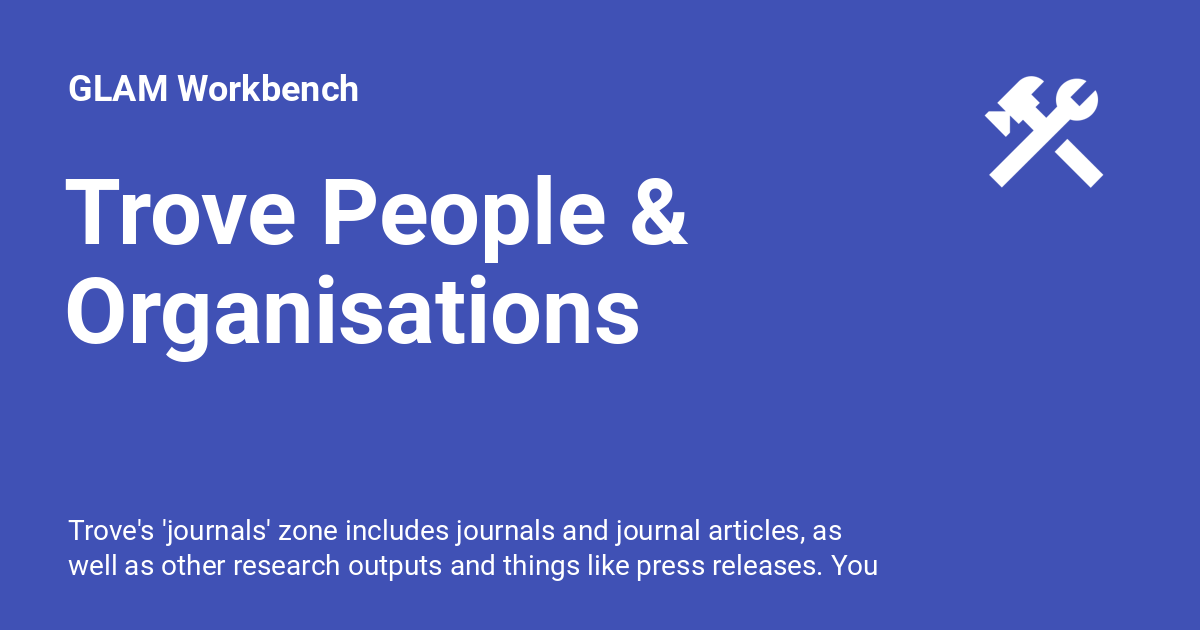
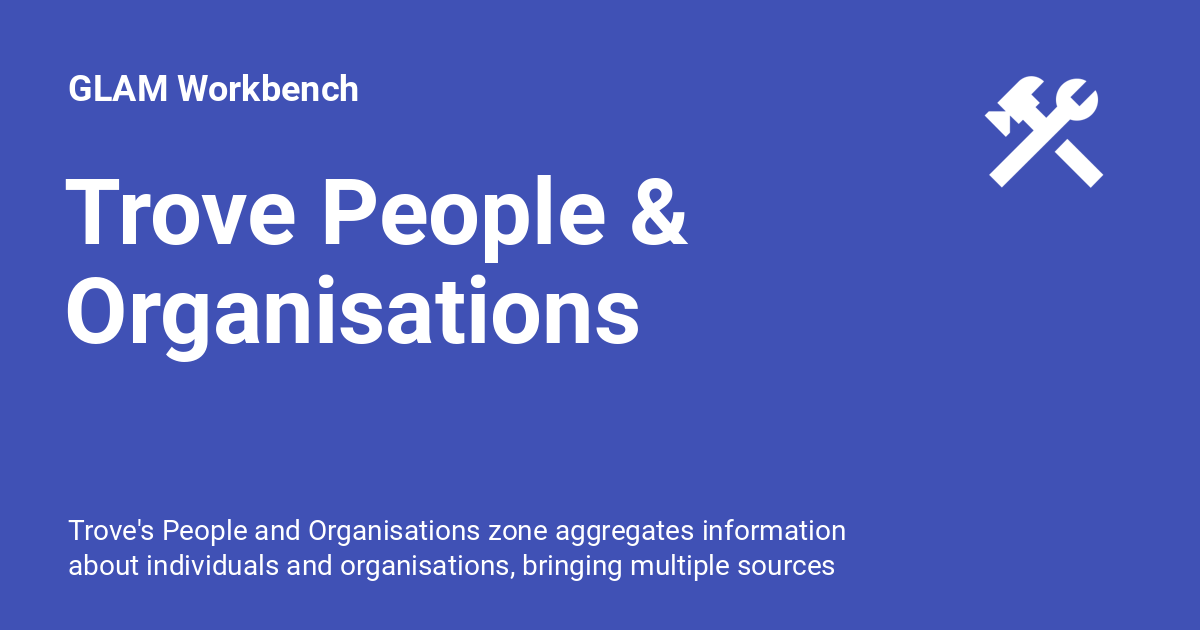
Deployed 1f4330a with MkDocs version: 1.3.0

Changed region(s): [[0.0617, 0.8143, 0.74, 0.9349]]

diff --git a/trove-people/index.html b/trove-people/index.html
@@ -6,7 +6,7 @@
       <meta charset="utf-8">
       <meta name="viewport" content="width=device-width,initial-scale=1">
       
-        <meta name="description" content="Trove's 'journals' zone includes journals and journal articles, as well as other research outputs and things like press releases. You can access metadata from the journal zone through the Trove API, but to get text and images you need to use some screen scraping.">
+        <meta name="description" content="Trove's People and Organisations zone aggregates information about individuals and organisations, bringing multiple sources together under a single identifier. Data is available through a number of APIs.">
       
       
         <meta name="author" content="Tim Sherratt">
@@ -71,7 +71,7 @@
       
         <meta  property="og:title"  content="Trove People & Organisations - GLAM Workbench" >
       
-        <meta  property="og:description"  content="Trove's 'journals' zone includes journals and journal articles, as well as other research outputs and things like press releases. You can access metadata from the journal zone through the Trove API, but to get text and images you need to use some screen scraping." >
+        <meta  property="og:description"  content="Trove's People and Organisations zone aggregates information about individuals and organisations, bringing multiple sources together under a single identifier. Data is available through a number of APIs." >
       
         <meta  property="og:image"  content="https://glam-workbench.net/assets/images/social/trove-people/index.png" >
       
@@ -87,7 +87,7 @@
       
         <meta  name="twitter:title"  content="Trove People & Organisations - GLAM Workbench" >
       
-        <meta  name="twitter:description"  content="Trove's 'journals' zone includes journals and journal articles, as well as other research outputs and things like press releases. You can access metadata from the journal zone through the Trove API, but to get text and images you need to use some screen scraping." >
+        <meta  name="twitter:description"  content="Trove's People and Organisations zone aggregates information about individuals and organisations, bringing multiple sources together under a single identifier. Data is available through a number of APIs." >
       
         <meta  name="twitter:image"  content="https://glam-workbench.net/assets/images/social/trove-people/index.png" >
       
@@ -6649,7 +6649,7 @@
 
 <!-- Markdown content -->
 <h5 id="current-version-v100">Current version: v1.0.0<a class="headerlink" href="#current-version-v100" title="Permanent link">&para;</a></h5>
-<p>Trove's People and Organisations zone aggregates information about individuals and organisations, bringing multiple sources together under a single identifier. </p>
+<p>Trove's People and Organisations zone aggregates information about individuals and organisations, bringing multiple sources together under a single identifier.</p>
 <h2 id="harvesting-data">Harvesting data<a class="headerlink" href="#harvesting-data" title="Permanent link">&para;</a></h2>
 <p>There are two methods of harvesting the complete set of data from the People and Organisations zone – using the <a href="http://www.nla.gov.au/apps/peopleaustralia-oai/">OAI-PMH API</a>, or using the main Trove API in conjunction with the <a href="http://www.nla.gov.au/apps/srw/search/peopleaustralia">SRU interface</a>. The OAI-PMH method is <em>much</em> faster, but includes duplicate records that you'll need to filter out afterwards.</p>
 <h3 id="harvesting-the-complete-set-of-data-from-the-people-and-organisations-zone"><a href="complete_harvest/"><span class="twemoji"><svg xmlns="http://www.w3.org/2000/svg" viewBox="0 0 24 24"><path d="M17 4v6l-2-2-2 2V4H9v16h10V4h-2M3 7V5h2V4a2 2 0 0 1 2-2h12c1.05 0 2 .95 2 2v16c0 1.05-.95 2-2 2H7c-1.05 0-2-.95-2-2v-1H3v-2h2v-4H3v-2h2V7H3m2-2v2h2V5H5m0 14h2v-2H5v2m0-6h2v-2H5v2Z"/></svg></span> Harvesting the complete set of data from the People and Organisations zone</a><a class="headerlink" href="#harvesting-the-complete-set-of-data-from-the-people-and-organisations-zone" title="Permanent link">&para;</a></h3>

diff --git a/contributors/index.html b/contributors/index.html
@@ -6539,13 +6539,13 @@
 <ul>
 <li><a href="https://github.com/doylek1">Kim Doyle</a></li>
 <li><a href="https://people.eng.unimelb.edu.au/mharrop/">Mitchell Harrop</a></li>
-<li><a href="https://github.com/k-woitas">k-woitas</a></li>
-<li><a href="https://github.com/AshleyLTW">Ashley Wong</a></li>
-<li><a href="https://github.com/jnothman">Joel Nothman</a></li>
 <li><a href="https://github.com/anjackson">Andy Jackson</a></li>
 <li><a href="https://github.com/michaelniemann">Michael Niemann</a></li>
-<li><a href="https://github.com/harrykeightley">Harry Keightley</a></li>
+<li><a href="https://github.com/AshleyLTW">Ashley Wong</a></li>
 <li><a href="https://github.com/wragge">Tim Sherratt</a></li>
+<li><a href="https://github.com/k-woitas">k-woitas</a></li>
+<li><a href="https://github.com/harrykeightley">Harry Keightley</a></li>
+<li><a href="https://github.com/jnothman">Joel Nothman</a></li>
 </ul>
 
 <!-- Was this page helpful? -->
